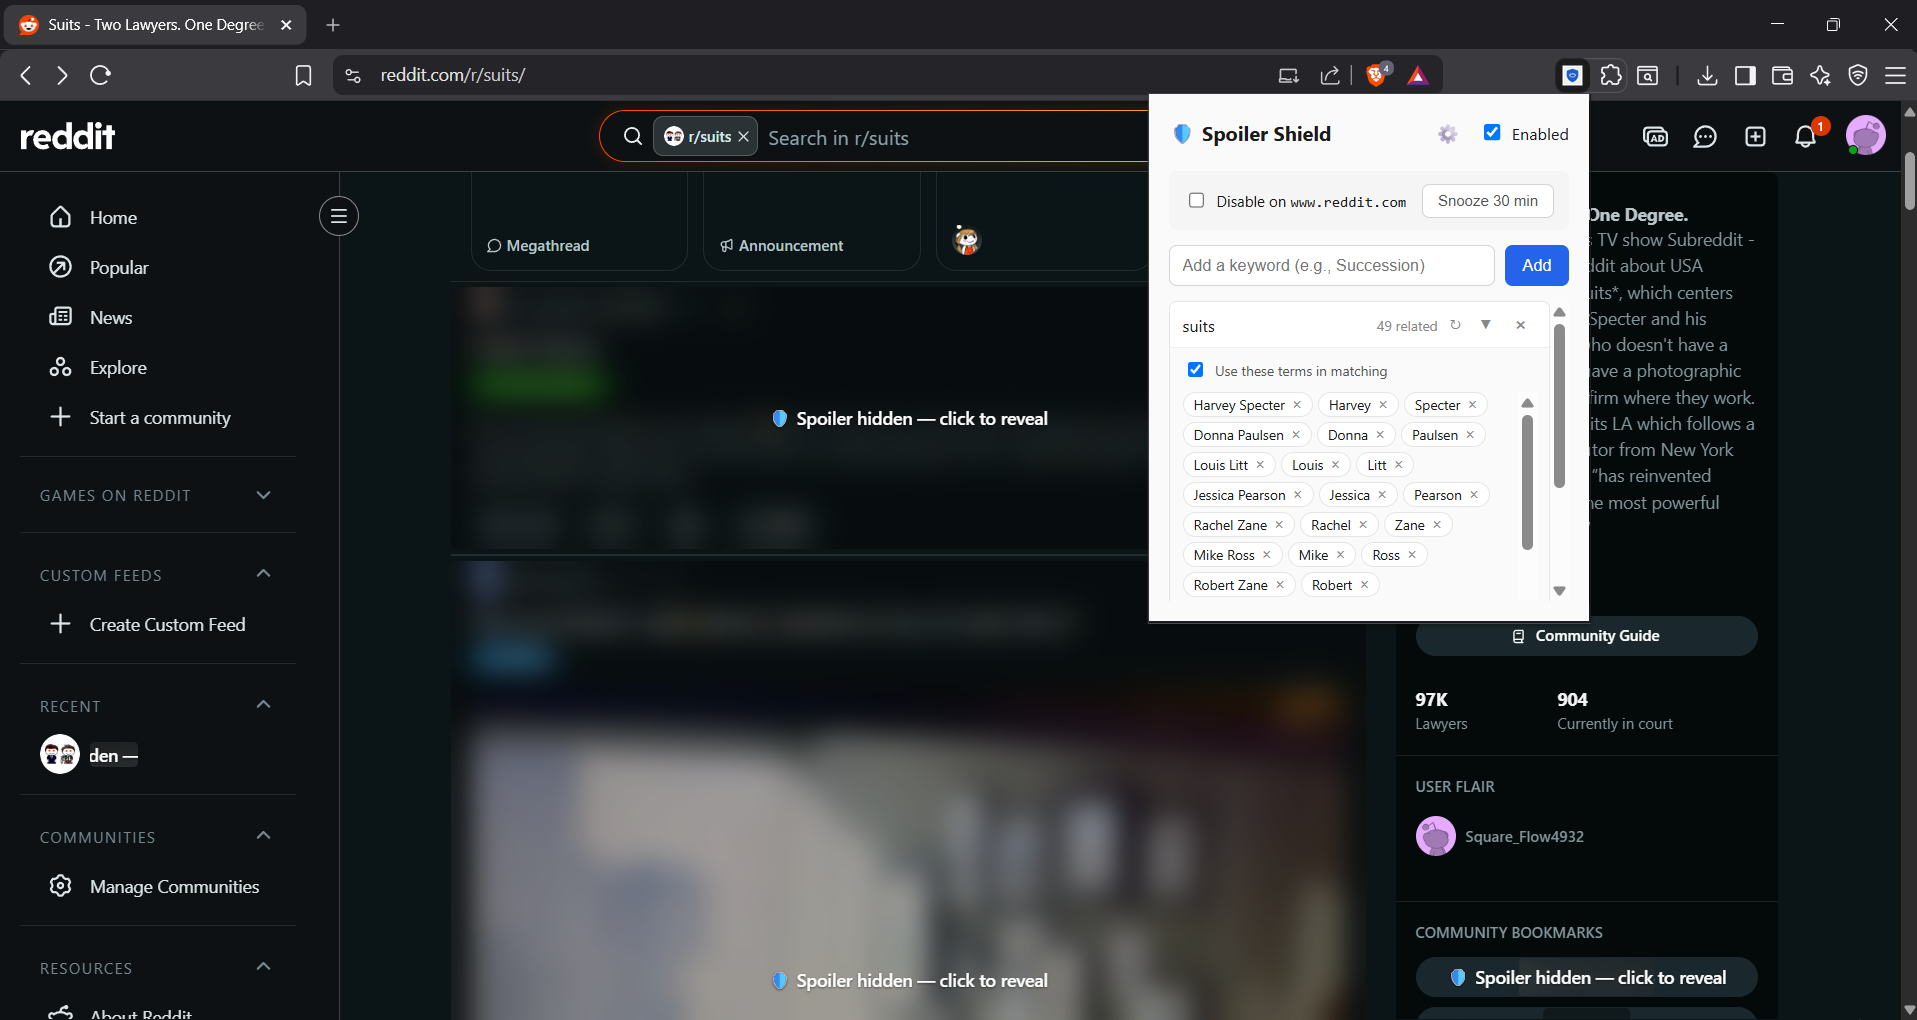
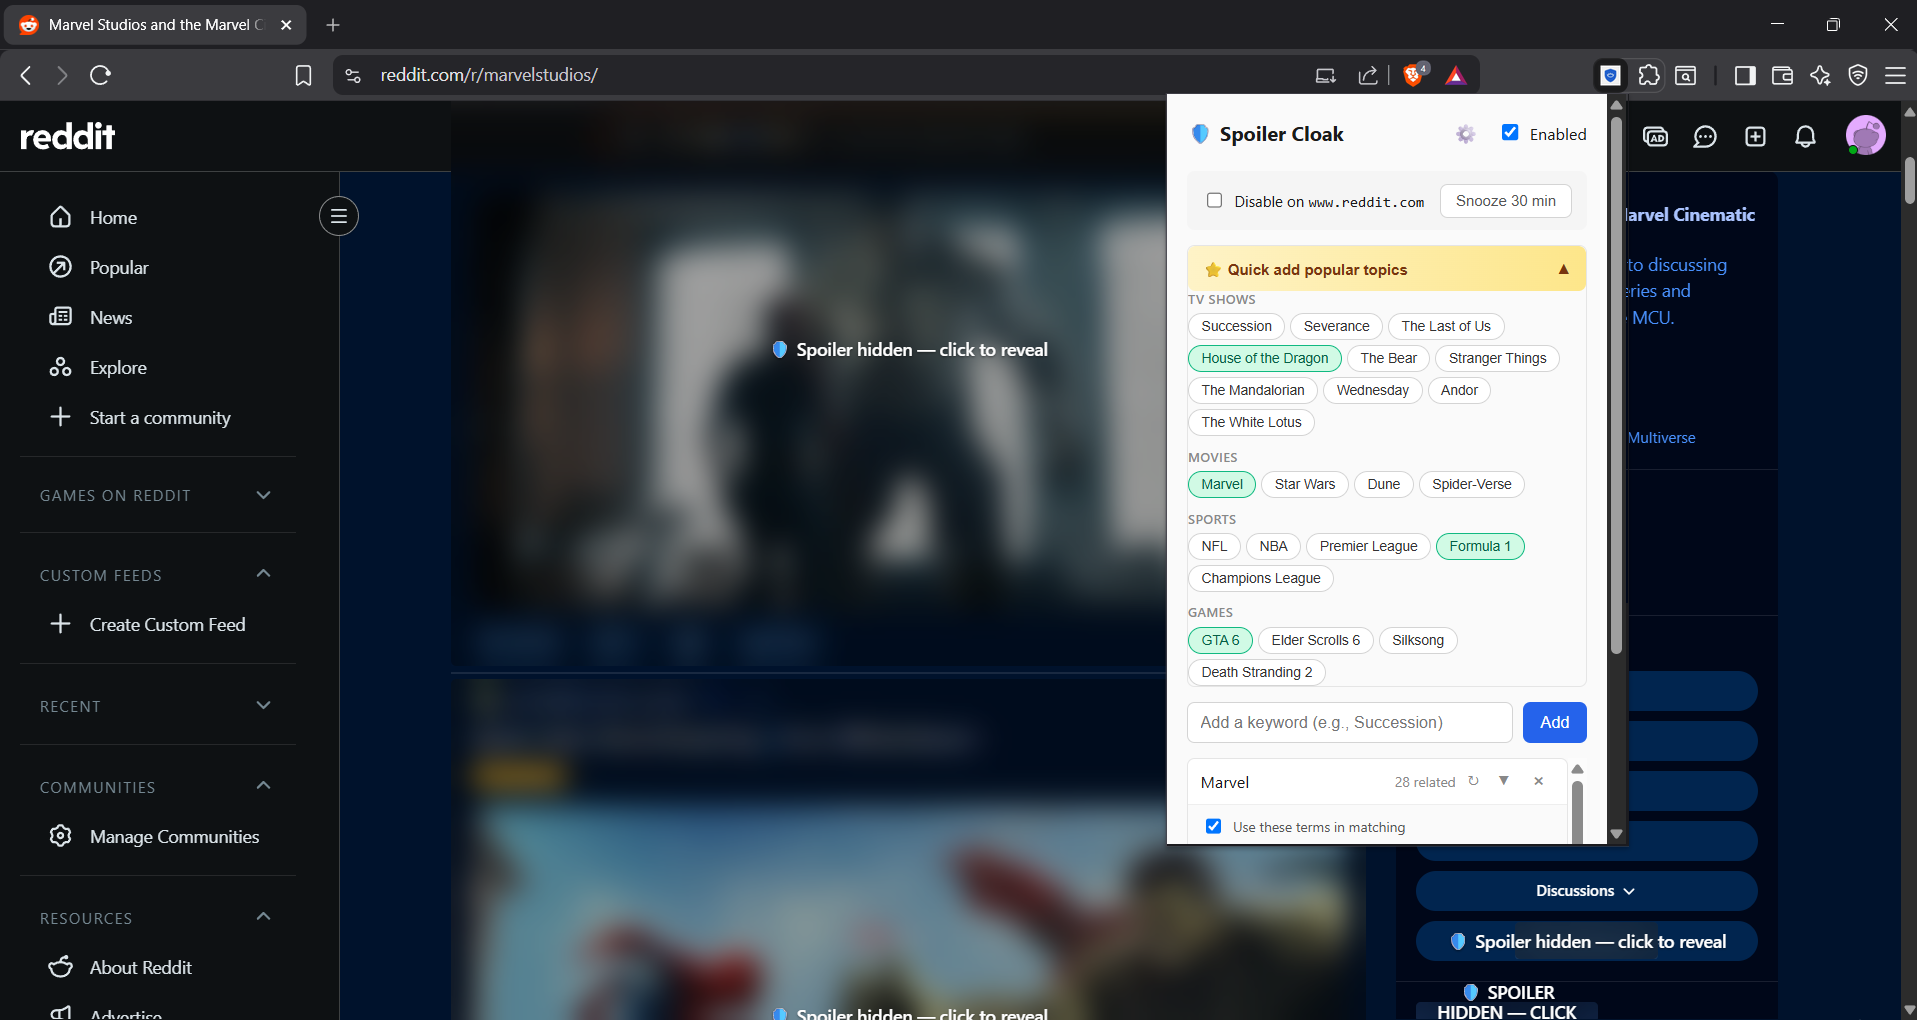
New feature update

diff --git a/README.md b/README.md
@@ -8,11 +8,12 @@ A Chrome extension that blurs spoilers about anything — TV shows, movies, spor
 
 ## What it does
 
-- Add keywords for things you're avoiding spoilers about
-- Optionally expand each keyword via Google Gemini (free tier) — one keyword becomes a list of related terms
+- **One-click setup**: tap any popular topic — Succession, NFL, Marvel, GTA 6, and 19 more — to instantly add 15-25 related keywords (character names, players, locations, plot terms)
+- Add custom keywords too, optionally expanded via Google Gemini (free tier) — one keyword becomes a list of related terms
 - Browse normally; any text matching your keywords gets blurred in real-time on every website
 - Click any blurred element to reveal it
 - Per-site disable and 30-minute snooze for when you're done dodging
+- Settings changes apply instantly across all open tabs — no page reloads
 
 The matching runs entirely in your browser. Nothing about the pages you visit is ever sent anywhere.
 
@@ -57,13 +58,19 @@ Keyword expansion uses Gemini's `responseSchema` parameter rather than prompt-on
 
 The extension doesn't run a backend. Users provide their own free-tier Gemini API key (15 requests/min, 1000/day, no credit card). This was a deliberate design choice — operating cost is zero, no user data flows through any third-party server, and the privacy story is honest. The tradeoff is a setup step for users.
 
+### Bundled starter lists with pre-baked AI expansions
+
+The cold-start problem — new users opening an empty popup and having to set up an API key before getting any value — is solved by shipping 23 curated topics with their AI expansions pre-generated and baked into the extension bundle. One click adds the topic + 15-25 expansion terms instantly. No API call needed at click time. The AI expander becomes the path for custom topics rather than the gateway to any value at all. Combined with the optimistic-add pattern in the popup, install-to-first-blur is two clicks.
+
 ### Centralized `shouldScan` rule
 
 Whether to scan a given page is decided by a single pure function: `shouldScan(settings, hostname) → boolean`. It encapsulates the master enabled toggle, the snooze timestamp check, and the per-site disabled list. Three checks in one place, easy to test, easy to extend.
 
-### Per-key reload diffing
+### In-place settings updates across tabs
 
-Most settings changes (keywords, enabled, snooze) reload every open tab. The `disabledSites` change is hostname-specific — the listener diffs old vs. new and only reloads if this tab's hostname's disabled state actually flipped. Prevents unnecessary reloads of unrelated tabs when toggling site-specific settings.
+Settings changes (adding keywords, toggling snooze, changing per-site disable) apply in real-time across every open tab without reloads. The content script subscribes to `chrome.storage.onChanged` and runs a refresh cycle: clear all currently-blurred elements (queried by CSS class so React-stripped cases are handled correctly), re-evaluate the `shouldScan` predicate, and re-scan `document.body` with the new settings.
+
+The unblur step removes both classes *and* event listeners — the reveal handler was extracted from an inline closure to a stable module-level reference so `removeEventListener` actually works. No scroll position lost, no playback interrupted. Significantly better UX than reload-on-change, which had been the naive original implementation.
 
 ## Performance
 